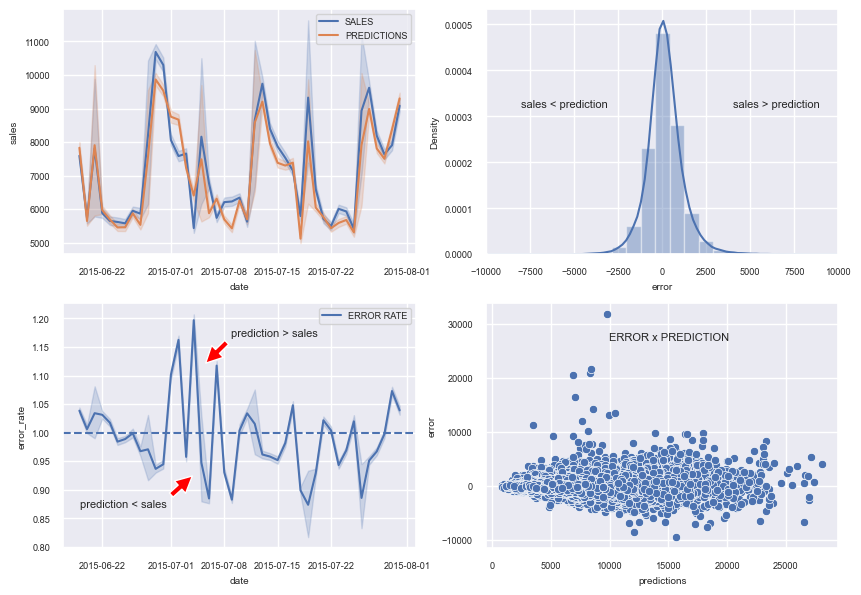
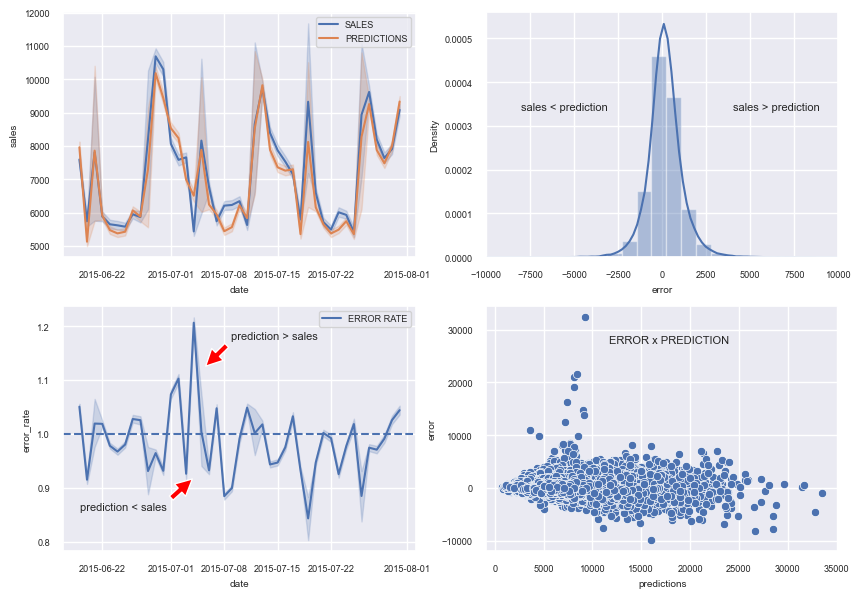
update README and images

diff --git a/README.md b/README.md
@@ -452,7 +452,7 @@ Nessa figura, as cores parecem indicar a existência de quatro quadrantes. Isso 
 
 O processo de criação de <i>insights</i> relacionados ao fenômeno de vendas diárias das lojas iniciou-se por um <i>brainstorming</i> para mapeamento das características do negócio. Para isso, foram levados em conta os atributos relacionados às lojas, sua localização, produtos, clientes e aspectos relativos ao calendário. A ideia pode ser visualizada a partir do seguinte mapa mental:
 
-![banner](img/MindMapHypothesis.png)
+![banner](img/MindMapHypothesisEN.png)
 
 A partir deste mapa, foram elaboradas diversas hipóteses. Abaixo estão listadas as hipóteses submetidas a pesquisa numérica:
 
@@ -621,6 +621,104 @@ Como resultado, o seguinte desempenho foi obtido para cada algoritmo:
 | MAPE CV | -             | 0.12+/-0.03      | 0.13+/-0.02      | 0.31+/-0.02      | 0.29+/-0.01      | 
 | RMSE    |  1835.136     | 1015.273         | 1029.747         | 2659.116         | 2746.044         | 
 | RMSE CV | -             | 1292.31+/-391.93 | 1363.02+/-272.64 | 2938.95+/-445.8  | 3062.87+/-502.05 | 
+
+NOVA TABELA:
+
+<table align="center">
+    <thead>
+        <tr>
+            <th>MODELO</th>
+            <th>MAE</th>
+            <th>MAPE</th>
+            <th>RMSE</th>
+            <th>MAE CV</th>
+            <th>MAPE CV</th>
+            <th>RMSE CV</th>
+        </tr>
+    </thead>
+    <tbody>
+        <tr>
+            <td>Random Forest Regressor</td>
+            <td align="center">705.200687</td>
+            <td align="center">0.098105</td>
+            <td align="center">1040.952730</td>
+            <td align="center">857.25 +/- 254.56</td>
+            <td align="center">0.12 +/- 0.03</td>
+            <td align="center">1292.8 +/- 393.88</td>
+        </tr>
+        <tr>
+            <td>XGBoost Regressor</td>
+            <td align="center">787.571129</td>
+            <td align="center">0.109993</td>
+            <td align="center">1117.234721</td>
+            <td align="center">947.68 +/- 195.0</td>
+            <td align="center">0.13 +/- 0.02</td>
+            <td align="center">1366.44 +/- 285.35</td>
+        </tr>
+        <tr>
+            <td>Average Model</td>
+            <td align="center">1256.126110</td>
+            <td align="center">0.194500</td>
+            <td align="center">1688.302409</td>
+            <td align="center">-</td>
+            <td align="center">-</td>
+            <td align="center">-</td>
+        </tr>
+        <tr>
+            <td>CatBoost Regressor</td>
+            <td align="center">1310.933928</td>
+            <td align="center">0.177246</td>
+            <td align="center">1890.319607</td>
+            <td align="center">1367.44 +/- 233.3</td>
+            <td align="center">0.19 +/- 0.01</td>
+            <td align="center">1987.94 +/- 354.14</td>
+        </tr>
+        <tr>
+            <td>LightGBM Regressor</td>
+            <td align="center">1433.506179</td>
+            <td align="center">0.194803</td>
+            <td align="center">2054.701957</td>
+            <td align="center">1492.14 +/- 218.38</td>
+            <td align="center">0.2 +/- 0.01</td>
+            <td align="center">2154.33 +/- 311.41</td>
+        </tr>
+        <tr>
+            <td>ExtraTrees Regressor</td>
+            <td align="center">1747.790045</td>
+            <td align="center">0.236164</td>
+            <td align="center">2517.785044</td>
+            <td align="center">1801.83 +/- 273.92</td>
+            <td align="center">0.25 +/- 0.01</td>
+            <td align="center">2590.42 +/- 412.14</td>
+        </tr>
+        <tr>
+            <td>Linear Regression</td>
+            <td align="center">1971.019911</td>
+            <td align="center">0.286735</td>
+            <td align="center">2815.226566</td>
+            <td align="center">2062.82 +/- 299.67</td>
+            <td align="center">0.3 +/- 0.01</td>
+            <td align="center">2945.94 +/- 465.73</td>
+        </tr>
+        <tr>
+            <td>Linear Regression - Lasso</td>
+            <td align="center">2015.160808</td>
+            <td align="center">0.280097</td>
+            <td align="center">2926.881510</td>
+            <td align="center">2113.15 +/- 329.48</td>
+            <td align="center">0.29 +/- 0.01</td>
+            <td align="center">3063.61 +/- 481.16</td>
+        </tr>
+    </tbody>
+</table>
+
+
+
+
+
+
+
+
 
 Como se pode observar, o algoritmo RANDOM FOREST foi o que trouxe o melhor resultado, seguido de perto pelo algoritmo XGBOOST. Deste modo, considerando os limites existentes em termos de memória necessária na nuvem para colocar o modelo em produção, optou-se pelo modelo XGBOOST para a versão final do projeto.
 

diff --git a/README-EN.md b/README-EN.md
@@ -457,7 +457,7 @@ In this figure, the colors seem to indicate the presence of four quadrants. This
 
 The process of generating insights related to daily store sales began with a brainstorming session to map out the characteristics of the business. This involved considering attributes related to **stores, location, products, customers, and calendar-related factors**. The idea is visually represented in the following mind map:  
 
-![banner](img/MindMapHypothesis.png)  
+![banner](img/MindMapHypothesisEN.png)  
 
 From this map, several hypotheses were formulated. Below is a list of the hypotheses that were tested using numerical analysis:  
 
